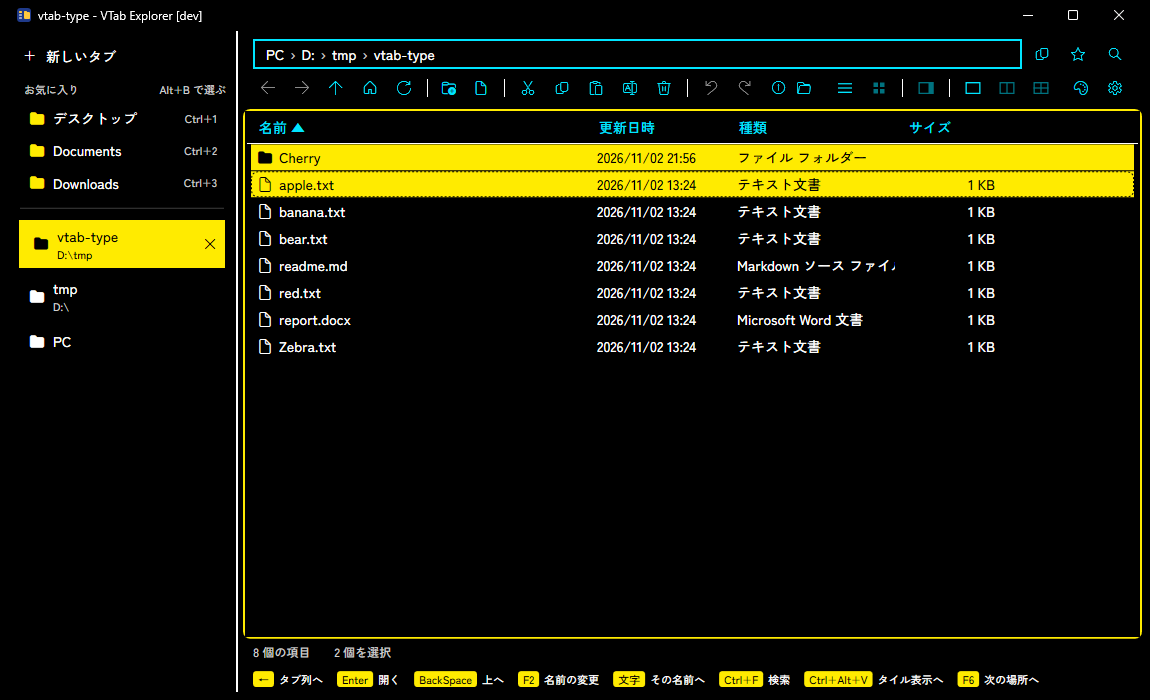
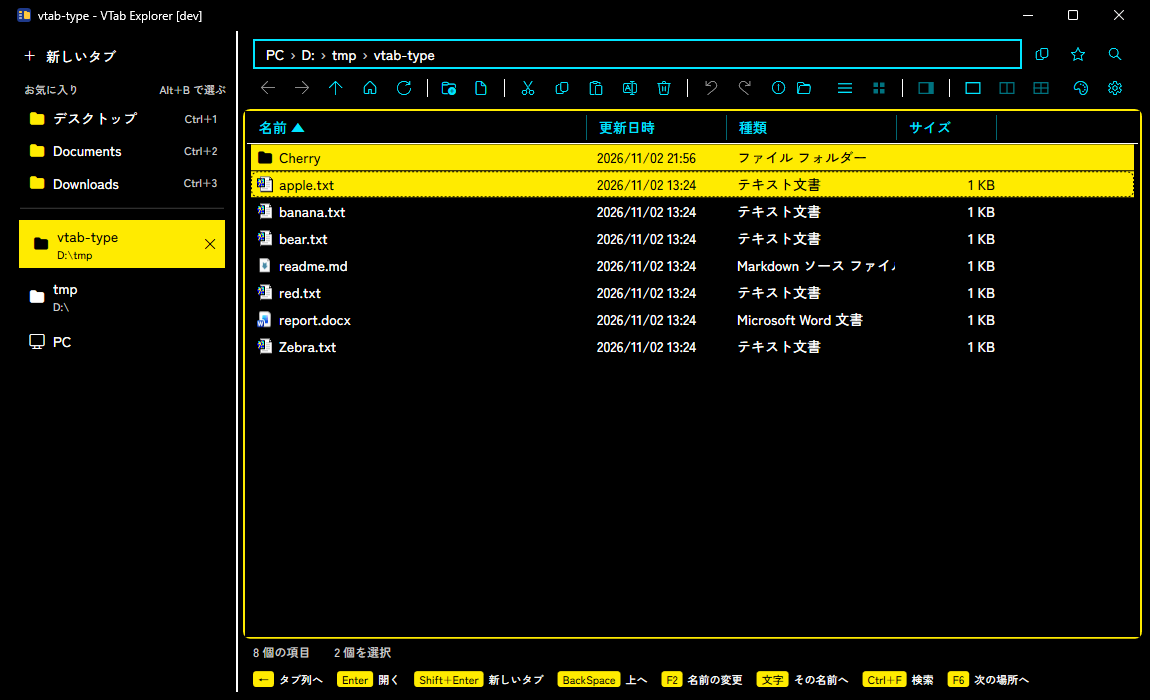
v1.0.2 の案内

Changed region(s): [[0.3652, 0.96, 0.913, 0.99], [0.213, 0.24, 0.2435, 0.51], [0.0304, 0.48, 0.0609, 0.51]]

diff --git a/README.md b/README.md
@@ -12,7 +12,7 @@
 - **標準エクスプローラーと同じ右クリックメニュー**（「送る」「新規作成」や、ほかのアプリが追加した項目も含む）
 - **元に戻す（Ctrl+Z）・やり直す（Ctrl+Y）**: 削除・移動・コピー・名前の変更・新規作成を、最大 100 件まで順に戻せる
 - フォルダの中身が変わると、一覧を自動で更新する
-- **スキン（着せ替え）**: コマンドバー右端の「スキン」から 15 種類の見た目を選べる。選んだスキンは次回起動時も使われる
+- **スキン（着せ替え）**: コマンドバー右端の「スキン」から 15 種類の見た目を選べる。選んだスキンは次回起動時も使われる。ファイルとドライブのアイコンは、どのスキンでも拡張子などに応じた Windows のアイコンを出す
 - **プレビュー（Alt+P）**: 選んだファイルの中身を右側に表示する。画像・テキスト（Shift_JIS も可）はアプリで、Excel・Word・PowerPoint・PDF などは Windows のプレビュー機能（エクスプローラーと同じもの）で表示する
 - **パンくずリスト**: アドレスバーを「PC › D: › 案件 › 見積」のように区切って表示し、途中の階層をクリックで移動、中クリックで新しいタブに開ける。クリックで入るとパスの入力欄になる。上の階層へ移ると、来たフォルダを選んだ状態で一覧にフォーカスが移るので、そのまま矢印キーで選べる
 - **パスのコピー**: 右クリックの「パスをコピー」（Ctrl+Shift+C）「名前をコピー」。ネットワークドライブ上では「共有フォルダのパス（\\サーバー\共有\…）でコピー」も使える。今のフォルダのパスは、アドレスバーの右のコピーのボタンでもコピーできる。パンくずを右クリックすると、右クリックした階層のパスもコピーできる
